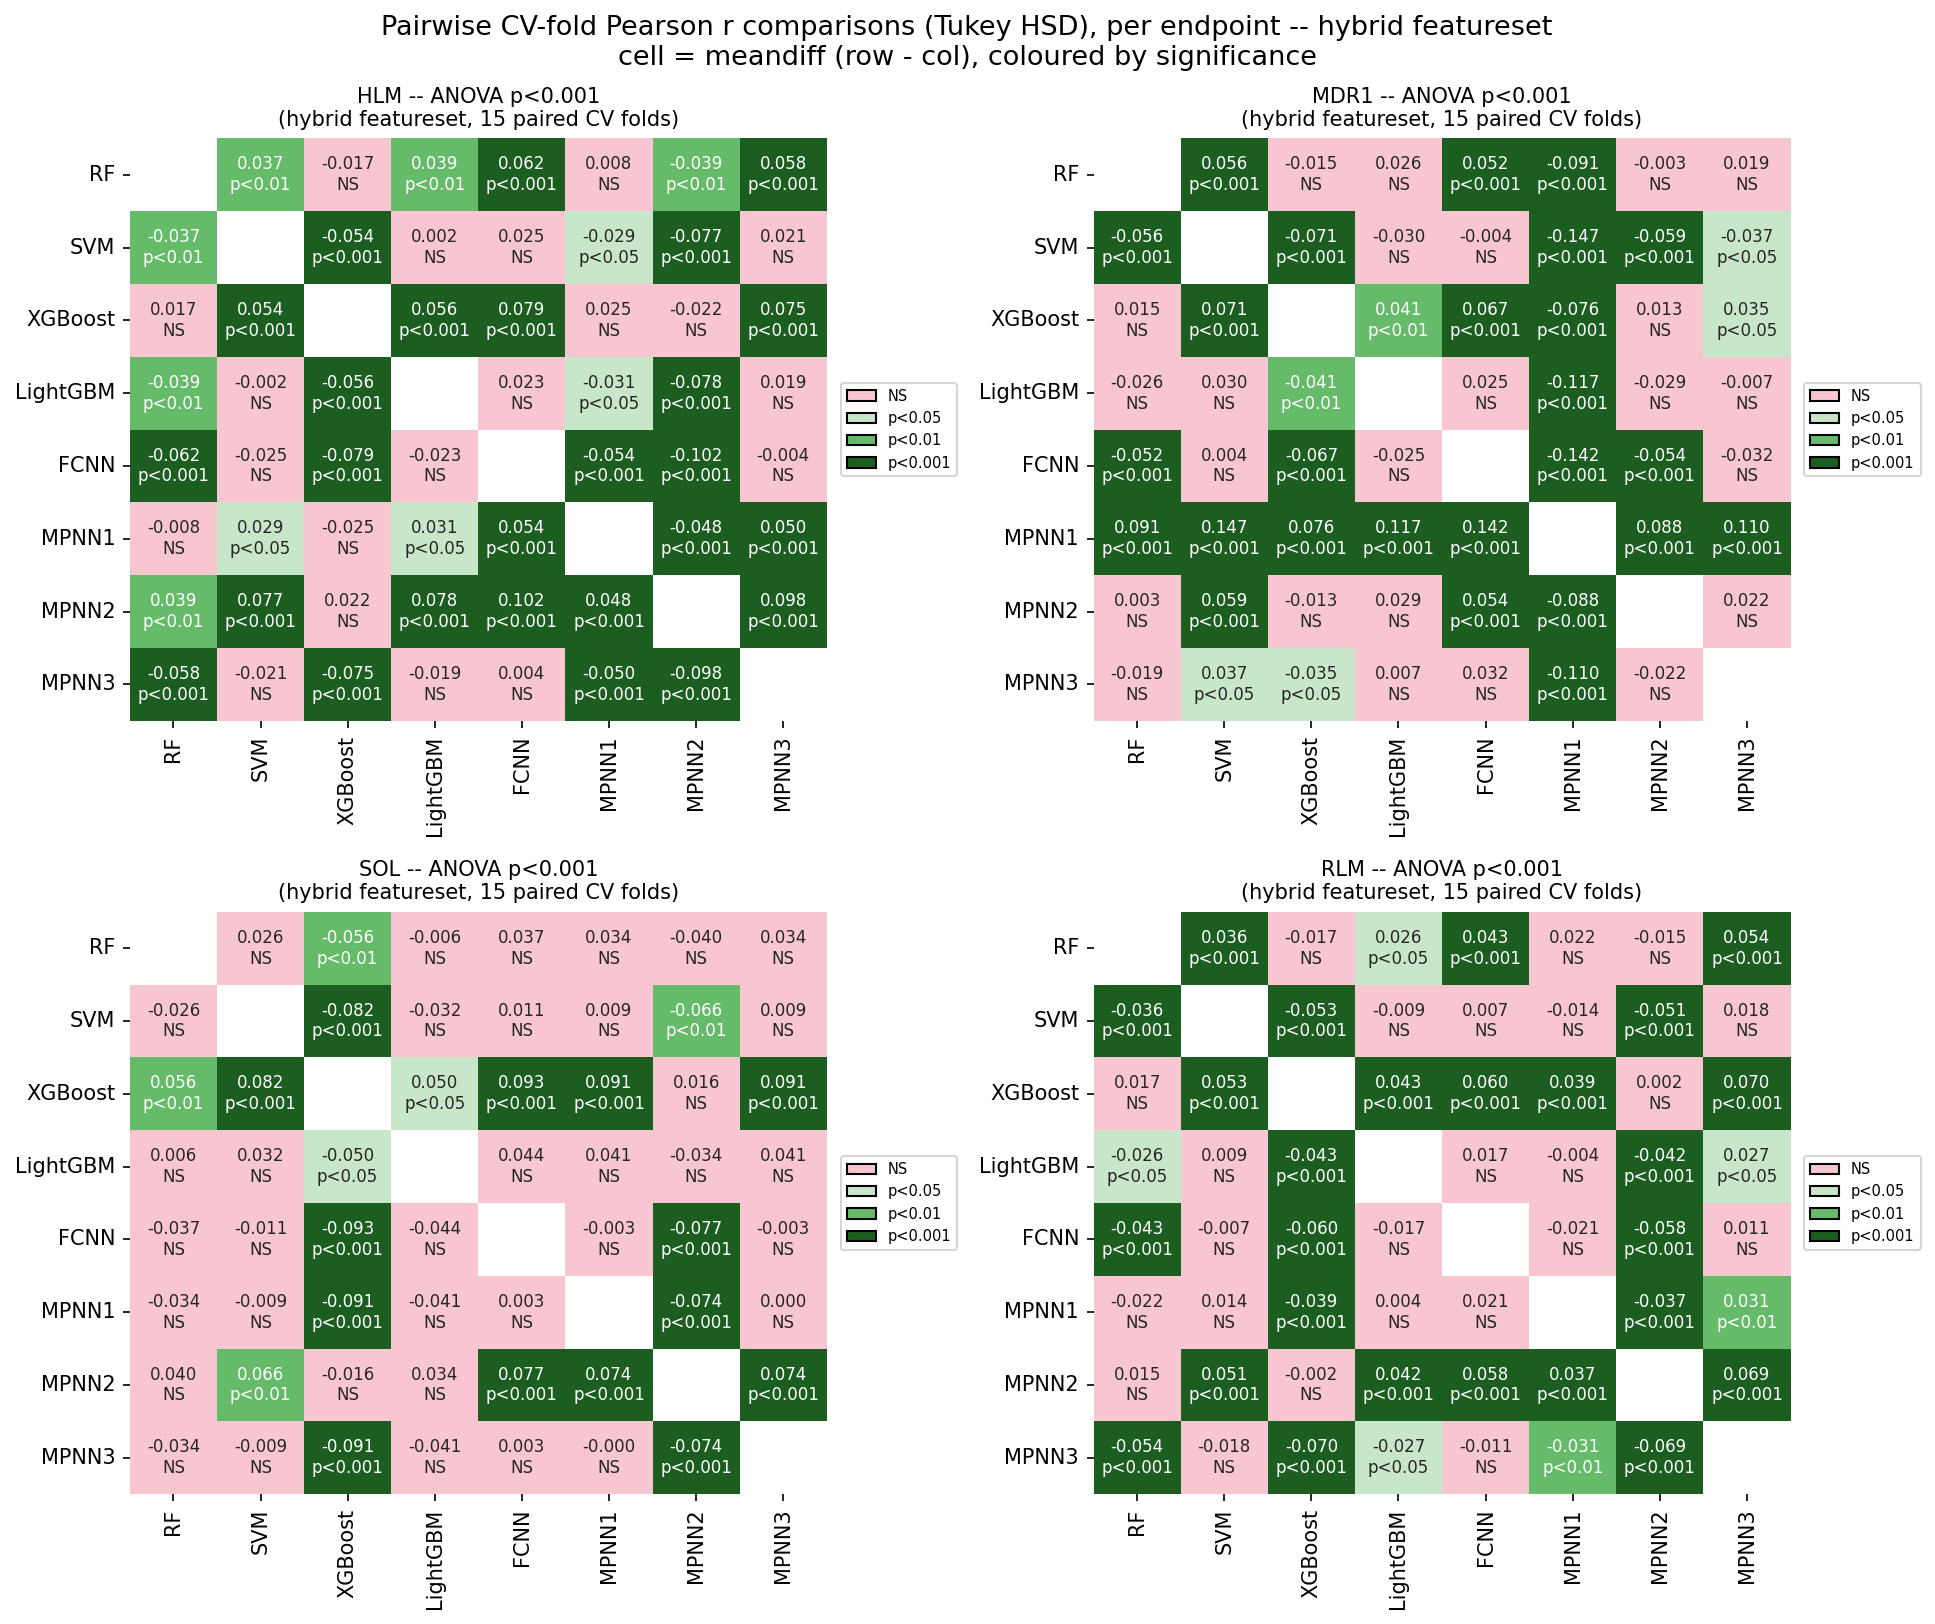
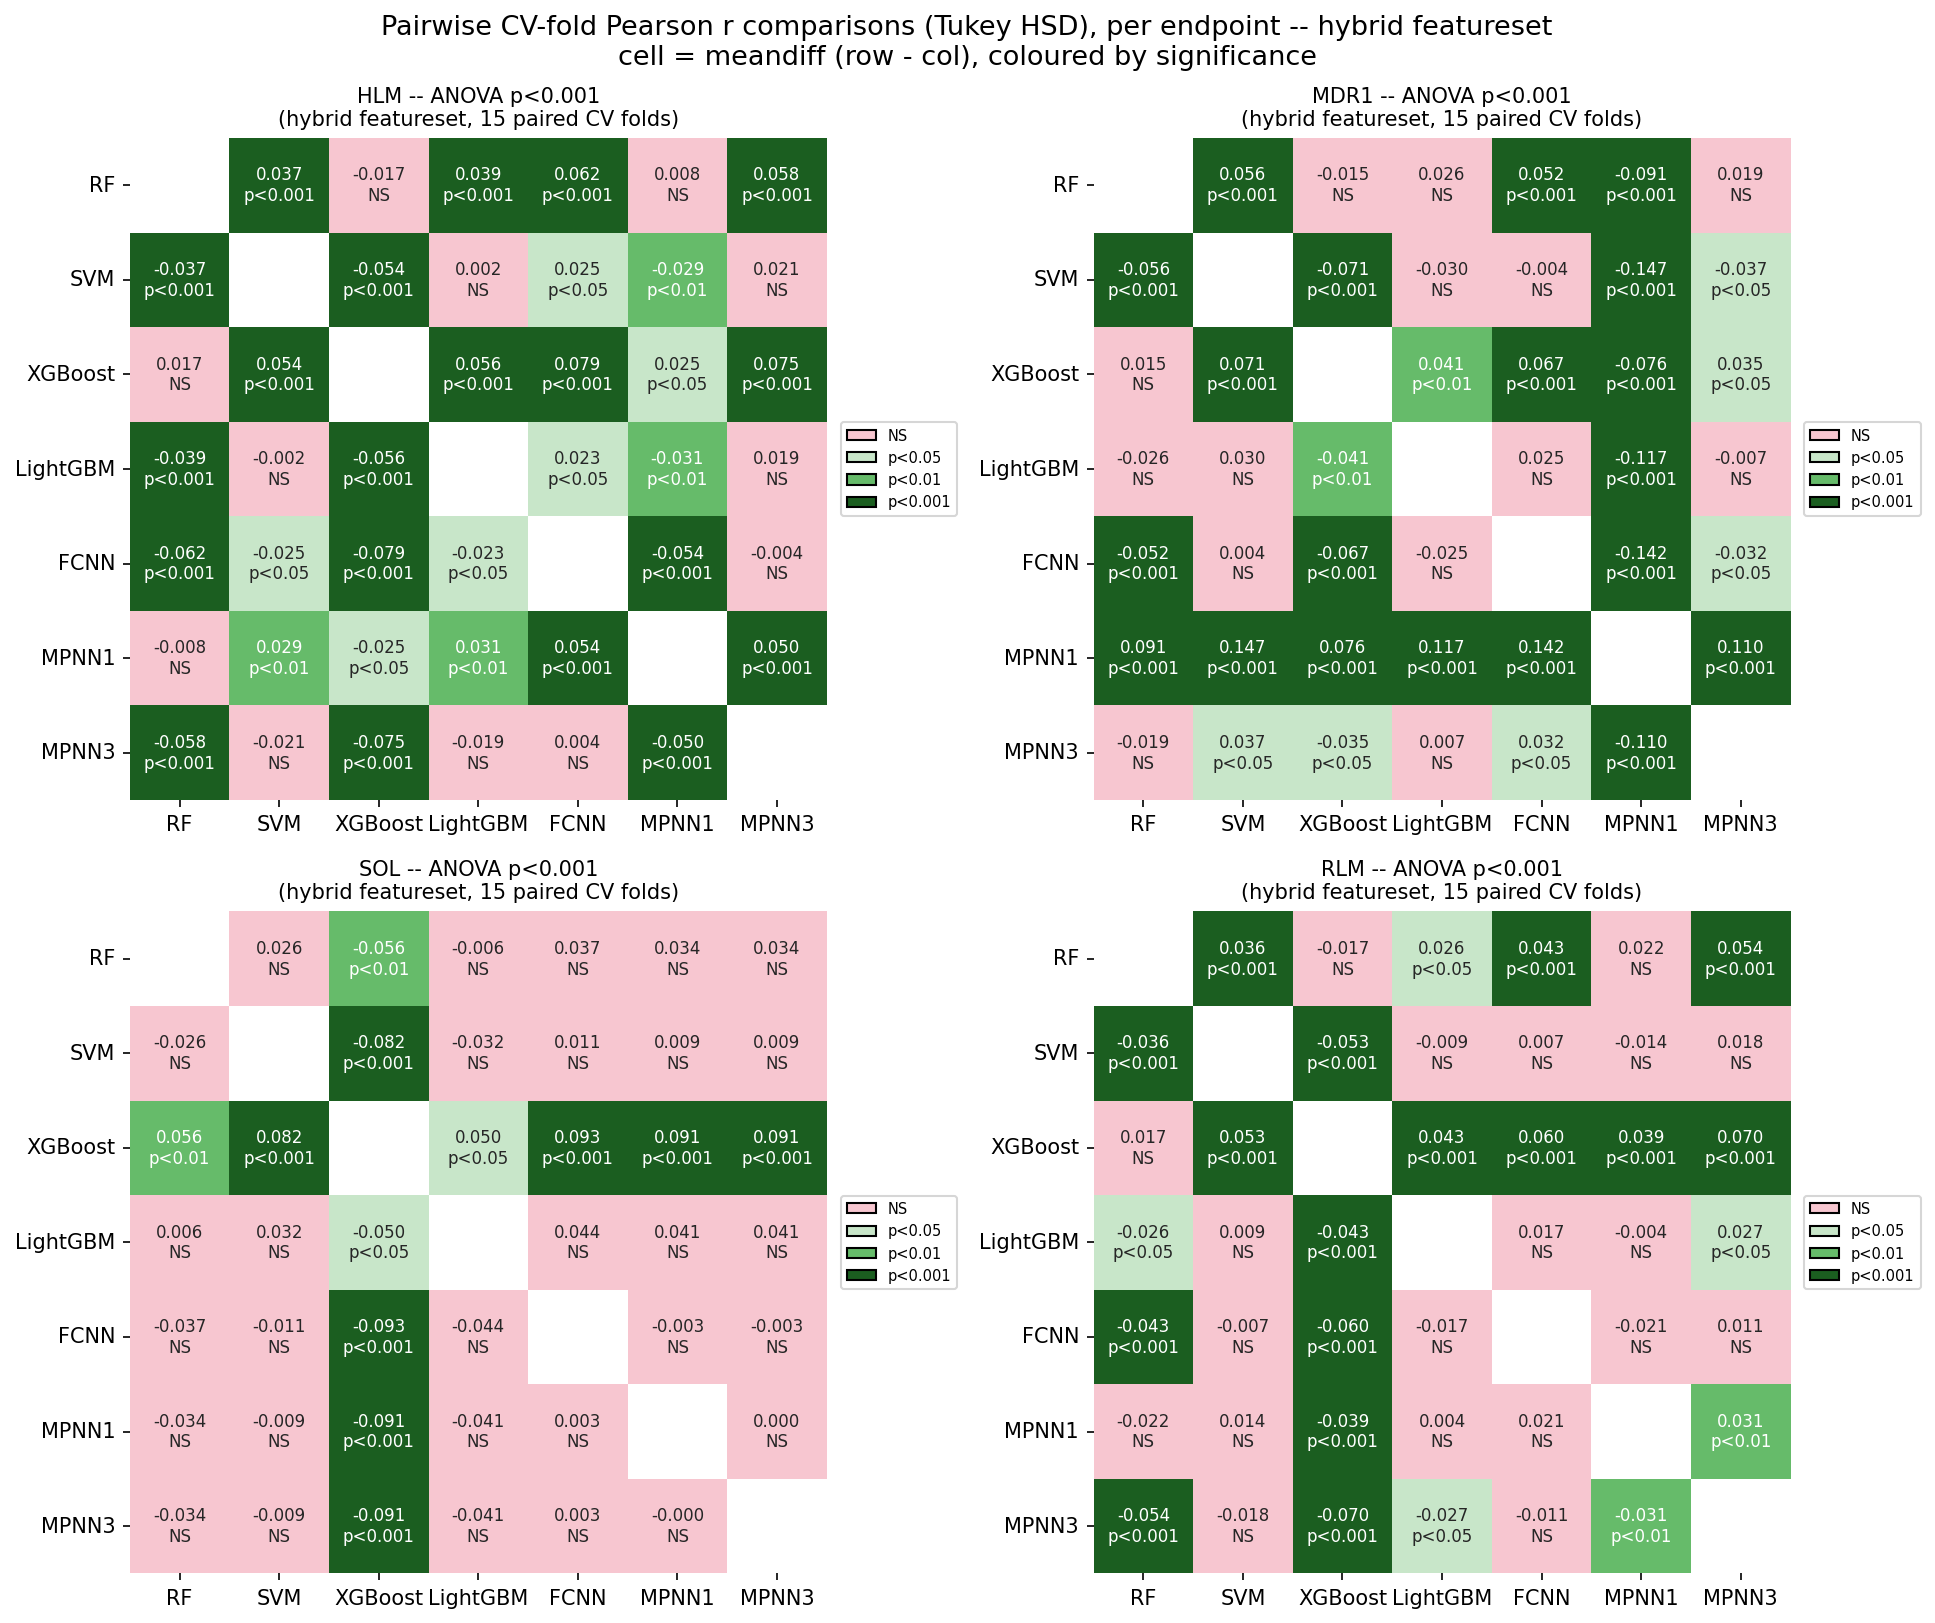
Update ADME recreation notebooks and figures
This commit updates the ADME recreation notebooks (01.5_adme_biogen_public_recreation.ipynb, 01.6_adme_paper_recreation_results.ipynb) and associated figures (section5_representation_effect_boxplot.png, section5_tukey_heatmap_per_endpoint.png).
It also includes minor updates to CLAUDE.md.

diff --git a/CLAUDE.md b/CLAUDE.md
@@ -148,6 +148,7 @@ This is a 6-week academic research project. Conventions are minimal but non-nego
 - **Notebooks runnable top-to-bottom**: always verify with Kernel → Restart & Run All before treating results as final
 - **Extract to `src/` when**: a function is called in more than one notebook, or is longer than ~20 lines
 - **`src/` functions get a one-line docstring** and a corresponding sanity test in `tests/`
+- **Notebook code favours readability over compactness**: one statement per line (no semicolon-chaining), named intermediate variables over deeply-nested one-liners, and stats/labels computed on their own lines before plotting. A person reads this code once and should get it immediately. (Exception: a single clear vectorised expression that beats an explicit loop — readable ≠ always more lines.)
 - **Run `ruff check src/ tests/`** occasionally (not on every save) to catch obvious issues
 
 ### What we skip
